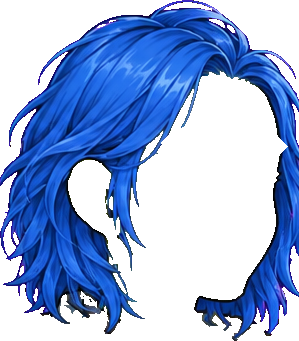
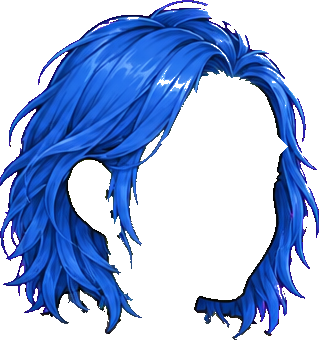
Women's long hair: orange-keyed ties (leather), no cut-off at cell edges, no robe ghosts

diff --git a/tools/sheet_align.py b/tools/sheet_align.py
@@ -64,6 +64,9 @@ def main(kind, tpl, edited):
         W, H = c["size"]
         sx, sy = c["src_xy"]
         dx, dy, err = register(orig[Y:Y + H, X:X + W], e, X, Y, W, H)
+        if kind != "faces":   # hair can run past the cell edge: cut into the gap between cells
+            MX = 45
+            X, W, sx = X - MX, W + 2 * MX, sx - MX
         cell = e_img.crop((X + dx, Y + dy, X + dx + W, Y + dy + H))
         ca = np.asarray(cell).copy()                            # drop labels ChatGPT writes on the sheet
         txt = (ca.min(2) > 235)
@@ -80,7 +83,7 @@ def main(kind, tpl, edited):
         else:
             a = np.asarray(cell.convert("RGBA")).copy()
             h, s, v = _hsv(a)
-            blue = (h >= 190) & (h <= 260) & (s > 0.35) & (v > 0.15)
+            blue = (h >= 190) & (h <= 260) & (s > 0.62) & (v > 0.15)   # vivid key only (robe blues are duller)
             brows = (bh >= 190) & (bh <= 260) & (bs > 0.35)
             bfull = ndimage.binary_dilation(brows, iterations=4)
             brows = np.zeros((H, W), bool)                     # cell window may start above the canvas
@@ -91,7 +94,7 @@ def main(kind, tpl, edited):
             if n:
                 sizes = ndimage.sum(m, lab, range(1, n + 1))
                 cx_ = ndimage.center_of_mass(m, lab, range(1, n + 1))
-                keep = [i + 1 for i in range(n) if sizes[i] >= 40 and (cx_[i][1] > 60 or sizes[i] > 0.2 * sizes.max())]
+                keep = [i + 1 for i in range(n) if sizes[i] >= 40 and (60 < cx_[i][1] < W - 60 or sizes[i] > 0.2 * sizes.max())]
                 m = np.isin(lab, keep)                      # drop neighbouring cells' strands at the edge
             m |= ndimage.binary_dilation(m, iterations=2) & (v < 0.35)
             lab_h, nh = ndimage.label(m)                     # drop detached flecks (robe outline bits)
@@ -103,9 +106,11 @@ def main(kind, tpl, edited):
             bridge = ndimage.binary_closing(m, iterations=10) & ~m
             limey = (h >= 50) & (h <= 120) & (s > 0.3)
             mag = (a[..., 0] > 200) & (a[..., 1] < 90) & (a[..., 2] > 200)
-            bluish = (h >= 185) & (h <= 265) & (s > 0.15)
+            bluish = (h >= 185) & (h <= 265) & (s > 0.55)   # hair-blue specks only, not robe blue
             m |= bridge & bluish & ~mag                      # blue specks inside braids are hair
-            ocell = orig[Y:Y + H, X:X + W]
+            ocell = np.zeros((H, W, 3), int) + (255, 0, 255)
+            oc = orig[Y:Y + H, max(X, 0):X + W]
+            ocell[:oc.shape[0], max(-X, 0):max(-X, 0) + oc.shape[1]] = oc
             added = np.abs(np.asarray(cell.convert("RGB")).astype(int) - ocell).sum(2) > 110   # painted by the edit
             added = ndimage.binary_opening(added, iterations=1)
             near_hair = ndimage.binary_dilation(m, iterations=6)
@@ -113,14 +118,26 @@ def main(kind, tpl, edited):
             inside_hair = ndimage.binary_closing(m, iterations=14) & ~m
             warm = (h >= 15) & (h <= 50) & (s > 0.35) & (v > 0.25)   # gold / brown bands
             dark = v < 0.3                                         # dark elastic bands
-            tie = inside_hair & (added | warm) & (warm | dark) & ~limey & ~mag & ~bluish
-            lab_t, nt = ndimage.label(tie)
-            if nt:
-                sz = ndimage.sum(tie, lab_t, range(1, nt + 1))
-                tie = np.isin(lab_t, 1 + np.flatnonzero((sz >= 40) & (sz <= 1500)))
-                tie = ndimage.binary_dilation(tie, iterations=1) & inside_hair
+            tie = np.zeros_like(m)   # ties come only from the orange key (guessing grabbed robe bits)
+            orange = (h >= 15) & (h <= 40) & (s > 0.6) & (v > 0.6)   # key-coloured ties (preferred)
+            ol, on = ndimage.label(orange)
+            keep_o = []
+            for i in range(1, on + 1):                                # a tie is mostly wrapped in hair;
+                comp = ol == i                                        # robe gold/medallions are not
+                ring = ndimage.binary_dilation(comp, iterations=4) & ~comp
+                if comp.sum() >= 40 and (m & ring).sum() / max(ring.sum(), 1) > 0.35:
+                    keep_o.append(i)
+            orange = np.isin(ol, keep_o)
+            if orange.sum() > 80:
+                tie = orange.copy()
+                tie |= ndimage.binary_dilation(tie, iterations=2) & (v < 0.35)      # its outline
+                m &= ~tie
             ties = a.copy()
             ties[~tie, 3] = 0
+            if orange.sum() > 80:   # recolour the orange key to leather brown
+                from recolor import gradient_map
+                ties = np.asarray(gradient_map(Image.fromarray(ties),
+                                  [(28, 16, 8), (92, 56, 30), (150, 98, 54), (214, 168, 110)])).copy()
             a = np.asarray(cell.convert("RGBA")).copy()
             a[~m, 3] = 0
             a[~m, 3] = 0
